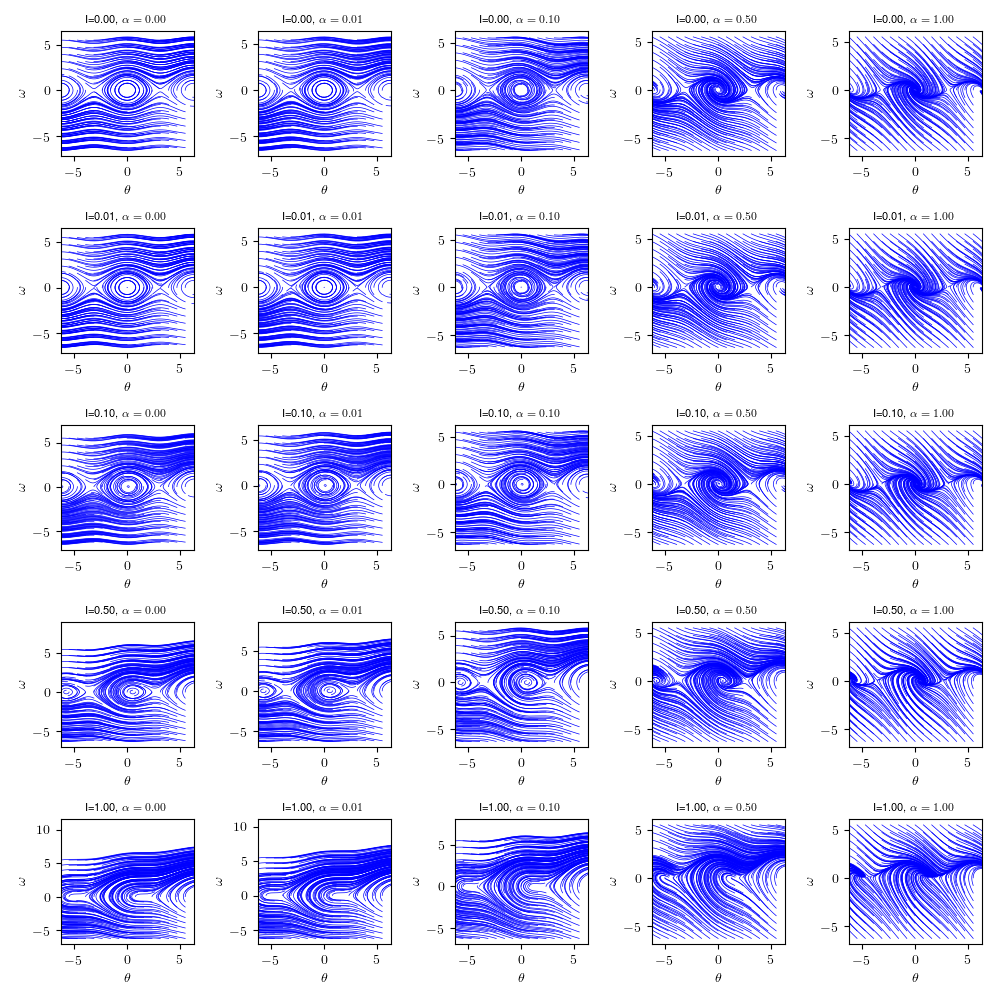
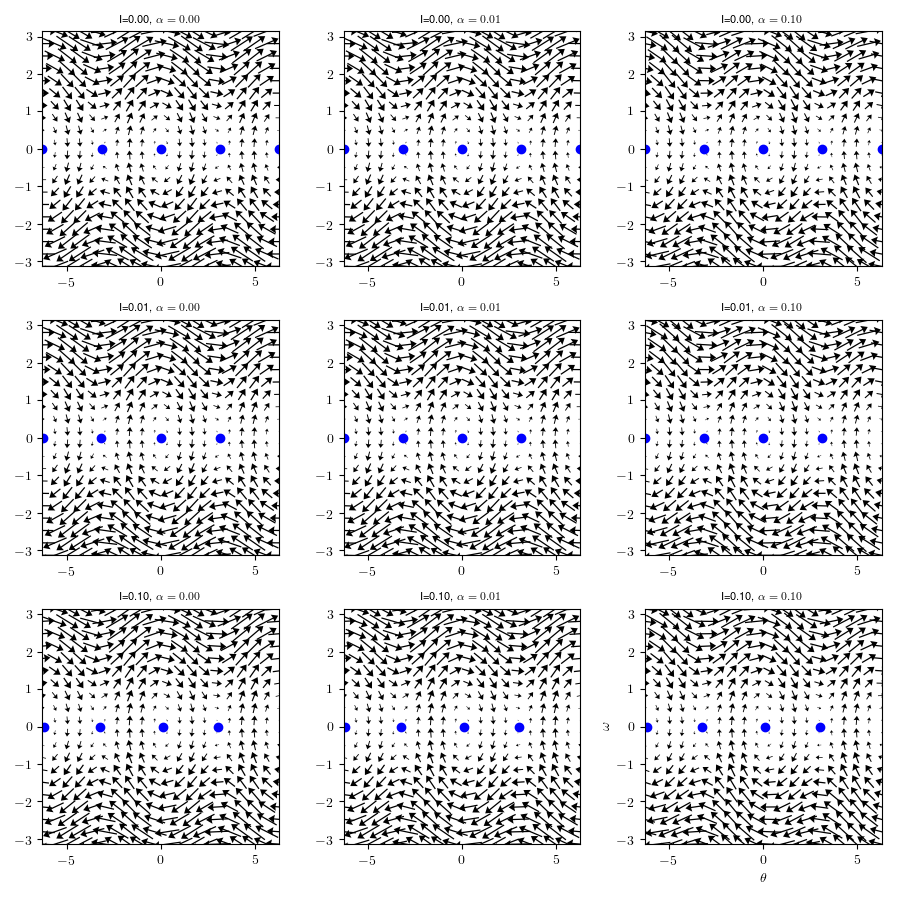
Now I need to compute trajectories near these points.

diff --git a/DynamicalSystems2018/HW1/pendulum_pyds.py b/DynamicalSystems2018/HW1/pendulum_pyds.py
@@ -19,6 +19,7 @@ import math
 import random
 import itertools
 import PyDSTool as pd
+from PyDSTool.Toolbox import phaseplane as pp
 
 def construct_system( I, alpha, init=(0,0), T = 5 ):
     theta0, w0 = init
@@ -44,26 +45,34 @@ def plot( trajs, ax ):
     for t in trajs:
         x, y = t['theta'], t['w']
         dx, dy = x[1] - x[0], y[1] - y[0]
-        ax.plot( x, y, color = 'blue', lw = 0.5 )
+        ax.plot( x, y, '-.', color = 'blue', lw = 0.4 )
         ax.set_xlabel( r'$\theta$' )
         ax.set_ylabel( r'$\omega$' )
         ax.set_xlim( [ -2 *math.pi, 2 *math.pi ] )
 
 def compute_phase_plane( ode, I, alpha, ax = None ):
     ode.set( pars = dict( I = I, alpha = alpha ) )
+    ode.set( xdomain = dict( theta = [-2*math.pi,2*math.pi], w = [-math.pi, math.pi] ) )
     print( '| Computing for I=%f and alpha=%f' % (I,alpha) )
-    trajs = compute( ode )
+    trajs = None #compute( ode )
     if ax is None:
         return 
-    plot( trajs, ax)
+    if trajs:
+        plot( trajs, ax)
+    else:
+        # Find fixed-points and plot phase-plots.
+        fp_coord = pp.find_fixedpoints( ode, eps=1e-8 )
+        for p in fp_coord:
+            ax.plot( p['theta'], p['w'], 'o', color = 'blue' )
+        pp.plot_PP_vf( ode, 'theta', 'w', N = 20, scale_exp = -0.5 )
     ax.set_title( r'I=%.2f, $\alpha=%.2f$' % (I, alpha), fontsize = 8 )
 
 
 def main( args = None ):
     print( 'Constructing system' )
     ode = construct_system( 0.0, 0.0 )
-    ps = [ 0.0, 0.01, 0.1, 0.5, 1.0 ]
-    plt.figure( figsize = (len(ps)*2, len(ps)*2 ) )
+    ps = [ 0.0, 0.01, 0.1 ]
+    plt.figure( figsize = (len(ps)*3, len(ps)*3 ) )
     for i, (I, alpha) in enumerate(itertools.product(ps, repeat = 2)):
         ax = plt.subplot( len(ps), len(ps), i + 1 )
         compute_phase_plane( ode, I=I, alpha=alpha, ax = ax )
